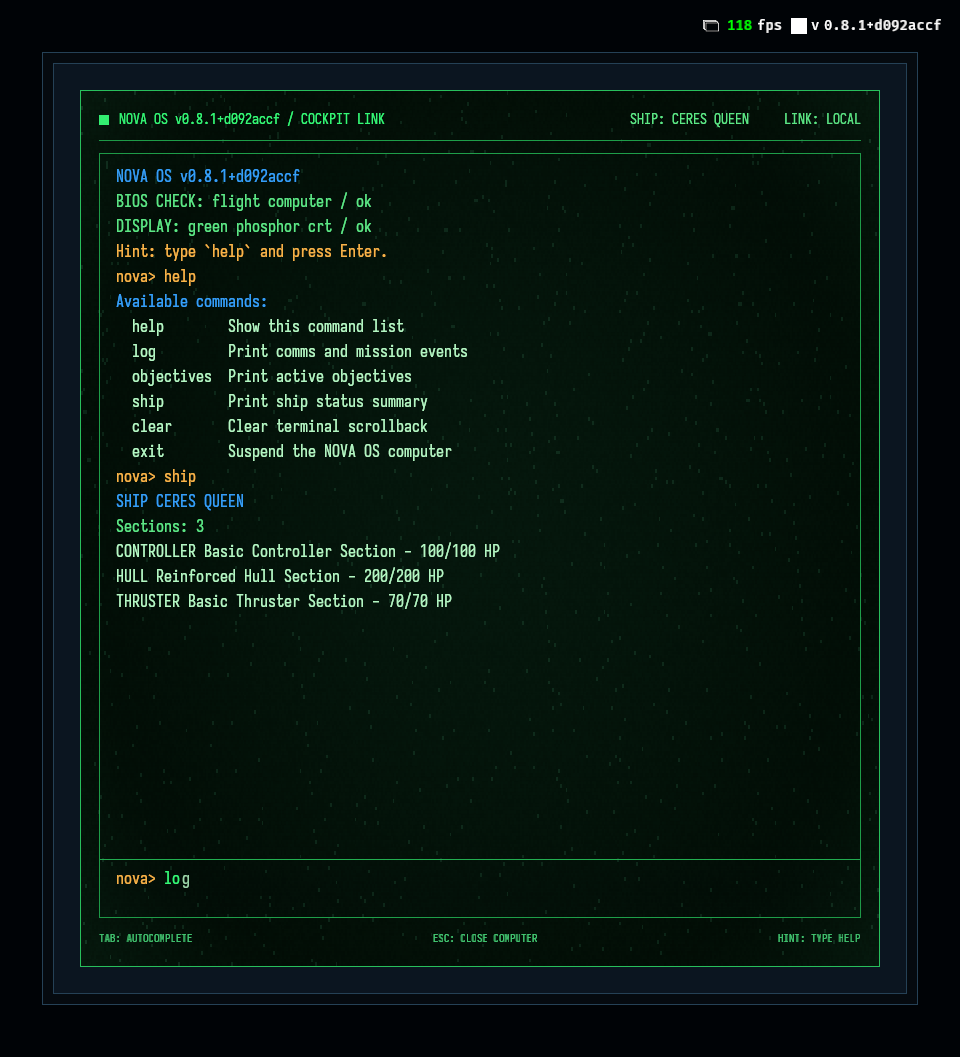
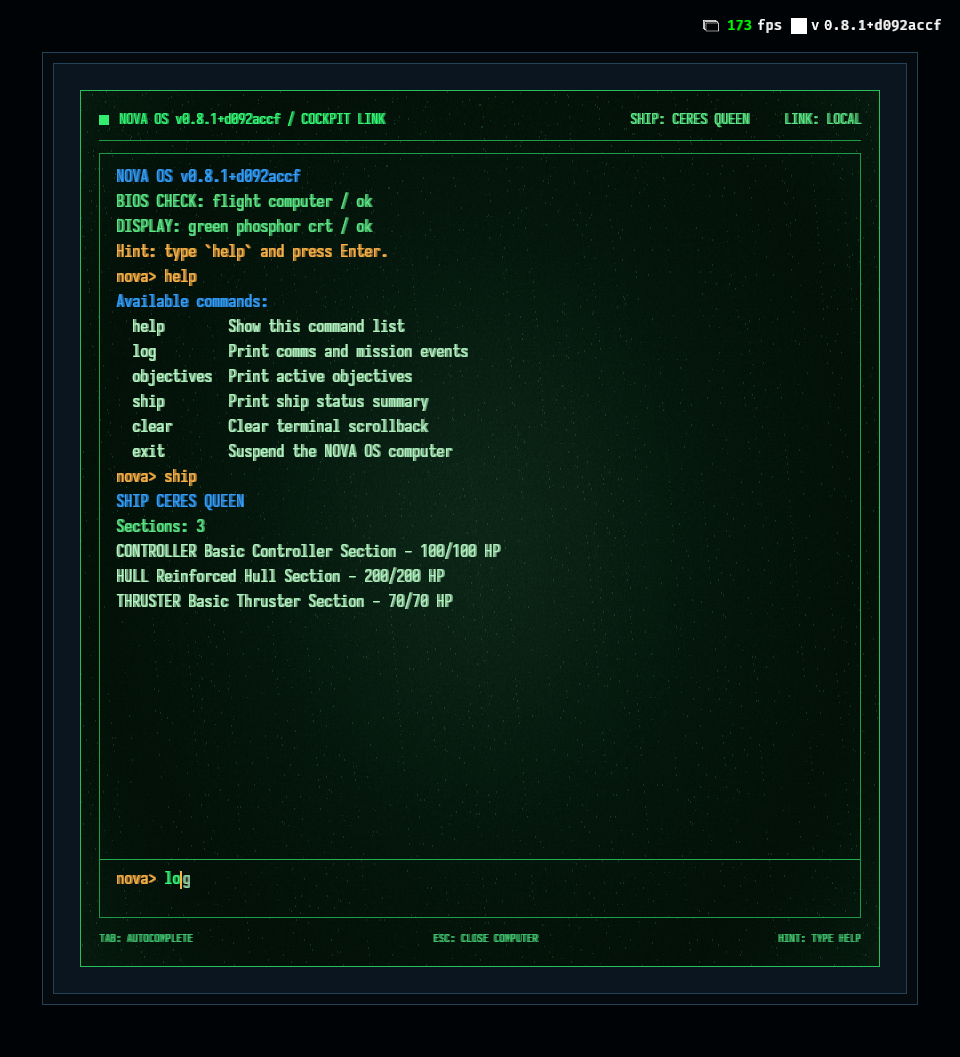
feat(hud): brighter NOVA OS CRT centre, phosphor-bleed text glow, finer green grain
Follow-up polish on the NOVA OS computer (task 20260726-180807):

- Brighter screen centre: shader glow gains a soft inner core term and
  glow_strength 0.05 -> 0.07, matching the HTML radial-gradient centre.
- Text glow: the zero-offset (invisible) bloom becomes a small horizontal
  phosphor bleed shadow (1.4px, alpha 0.7) so letters read as glowing CRT.
- Grain: finer two-frequency green phosphor noise with per-cell green-shade
  variation and sparse spark cells, for a realistic CRT texture.

diff --git a/crates/nova_gameplay/src/hud/drawer.rs b/crates/nova_gameplay/src/hud/drawer.rs
@@ -106,8 +106,9 @@ const NOVA_OS_CARET_BLINK_HZ: f32 = 1.25;
 const NOVA_OS_CRT_TINT: LinearRgba = LinearRgba::new(0.212, 1.0, 0.475, 0.03);
 const NOVA_OS_CRT_SCANLINE_STRENGTH: f32 = 0.06;
 const NOVA_OS_CRT_VIGNETTE_STRENGTH: f32 = 0.55;
-/// Soft centre-peaked phosphor bulge that gives the flat panel its CRT volume.
-const NOVA_OS_CRT_GLOW_STRENGTH: f32 = 0.05;
+/// Centre-peaked phosphor bulge that gives the flat panel its CRT volume and a
+/// clearly brighter middle (the HTML radial-gradient centre).
+const NOVA_OS_CRT_GLOW_STRENGTH: f32 = 0.07;
 const NOVA_OS_CRT_GRAIN_STRENGTH: f32 = 0.03;
 
 /// Global stacking-context z for the OPEN drawer: it is a modal, so backdrop and
@@ -1560,13 +1561,17 @@ fn nova_os_prompt_text_layout() -> TextLayout {
     }
 }
 
-/// A zero-offset phosphor bloom behind each glyph. The alpha is pushed fairly
-/// high so the antialiased glyph edges pick up extra colour and the text reads
-/// as glowing neon phosphor rather than flat paint.
+/// Horizontal offset of the phosphor bleed shadow, in logical px.
+const NOVA_OS_TEXT_BLEED_PX: f32 = 1.4;
+
+/// A phosphor glow behind each glyph, offset a hair sideways so it reads as a
+/// horizontal CRT phosphor bleed/halo rather than flat paint (a zero-offset
+/// shadow is invisible - it sits exactly behind the glyph). This is what gives
+/// the text its glow.
 fn nova_os_text_bloom(color: Color) -> TextShadow {
     TextShadow {
-        offset: Vec2::ZERO,
-        color: color.with_alpha(0.6),
+        offset: Vec2::new(NOVA_OS_TEXT_BLEED_PX, 0.0),
+        color: color.with_alpha(0.7),
     }
 }
 
@@ -3206,8 +3211,9 @@ mod tests {
             "typed input must not collapse inside the prompt row"
         );
         assert!(
-            prompt_bloom.offset == Vec2::ZERO && prompt_bloom.color.alpha() <= 0.61,
-            "terminal prompt bloom must stay faint and non-directional"
+            prompt_bloom.offset == Vec2::new(NOVA_OS_TEXT_BLEED_PX, 0.0)
+                && prompt_bloom.color.alpha() <= 0.71,
+            "terminal prompt bloom is a small horizontal phosphor bleed"
         );
 
         let (ghost, ghost_node, ghost_bloom) = app
@@ -3226,8 +3232,9 @@ mod tests {
             "autocomplete ghost stays inline after the visible prompt text"
         );
         assert!(
-            ghost_bloom.offset == Vec2::ZERO && ghost_bloom.color.alpha() <= 0.61,
-            "autocomplete ghost bloom must stay faint and non-directional"
+            ghost_bloom.offset == Vec2::new(NOVA_OS_TEXT_BLEED_PX, 0.0)
+                && ghost_bloom.color.alpha() <= 0.71,
+            "autocomplete ghost bloom is a small horizontal phosphor bleed"
         );
 
         let (prefix, prefix_color, prefix_bloom) = app
@@ -3238,8 +3245,9 @@ mod tests {
         assert_eq!(prefix.0, "nova>");
         assert_eq!(prefix_color.0, NOVA_OS_AMBER);
         assert!(
-            prefix_bloom.offset == Vec2::ZERO && prefix_bloom.color.alpha() <= 0.61,
-            "prompt prefix bloom must stay faint and non-directional"
+            prefix_bloom.offset == Vec2::new(NOVA_OS_TEXT_BLEED_PX, 0.0)
+                && prefix_bloom.color.alpha() <= 0.71,
+            "prompt prefix bloom is a small horizontal phosphor bleed"
         );
 
         let (hint, hint_color, hint_node) = app

diff --git a/tasks/20260726-180807/NOTES.md b/tasks/20260726-180807/NOTES.md
@@ -131,6 +131,22 @@ User feedback after the first land, addressed directly on master in the same tas
   `0003 OBJ + ...`); `objectives` drops its header and prints `OBJ + <message>`
   rows. Real data is kept; only the framing changed. Tests updated accordingly.
 
+## Feedback round 2 (post-land, on master)
+
+- Brighter centre: the shader glow now adds a soft inner `core` term on top of the
+  wide bulge and `glow_strength` went 0.05 -> 0.07, so the middle of the glass
+  reads clearly brighter (the HTML radial-gradient centre) without washing text.
+- Text glow: `nova_os_text_bloom` was a zero-offset shadow, which is invisible in
+  Bevy (it sits exactly behind the glyph). Changed it to a small horizontal
+  phosphor bleed (`offset.x = 1.4px`, alpha 0.7), which reads as an authentic CRT
+  glow/bleed. (A true blurred halo or HDR-bloom glow is not available: the UI
+  renders through the render-scale blit `Camera2d`, which has no HDR/Bloom, and
+  adding Bloom there would bloom the whole game view.)
+- Grain: reworked into a finer two-frequency green phosphor noise with per-cell
+  green-shade variation (dark cells lean deep phosphor, lit cells bright green)
+  plus sparse brighter spark cells, so it reads as lit CRT phosphor dots rather
+  than a flat film. Verified on a fresh capture.
+
 ## Self-reflection
 
 The durable lesson from `142635`'s RETRO held: build the capture harness FIRST,
